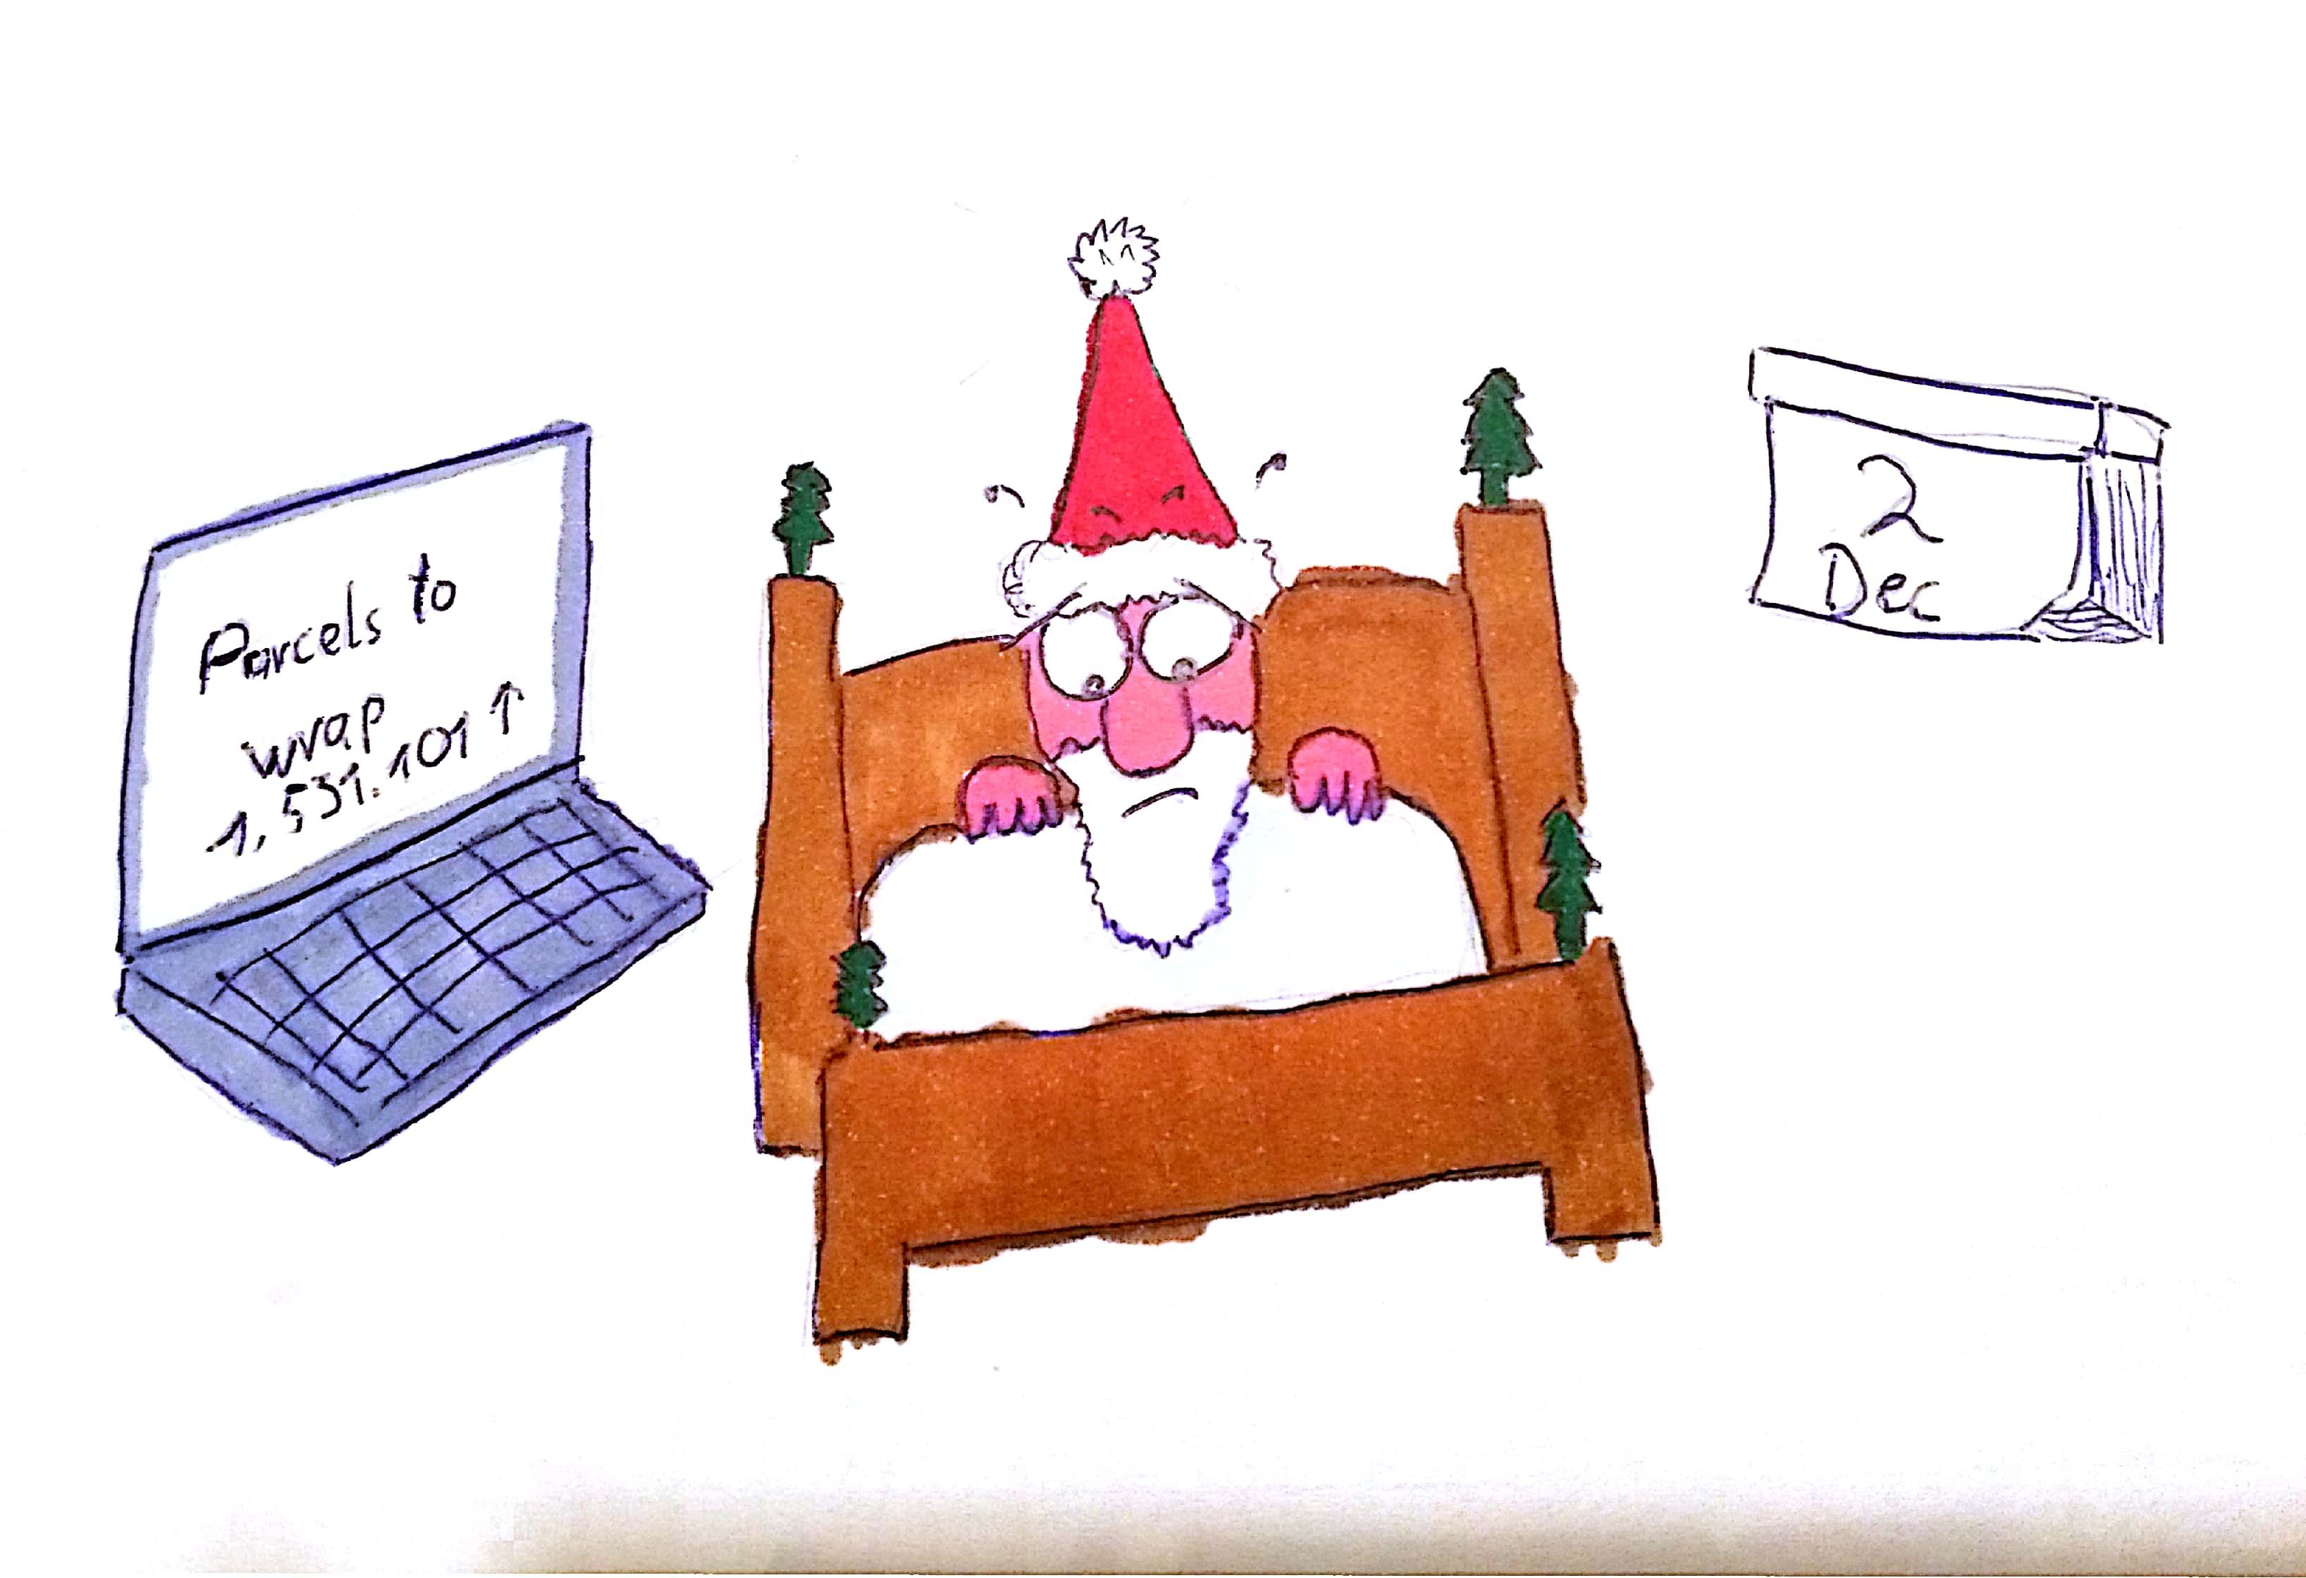
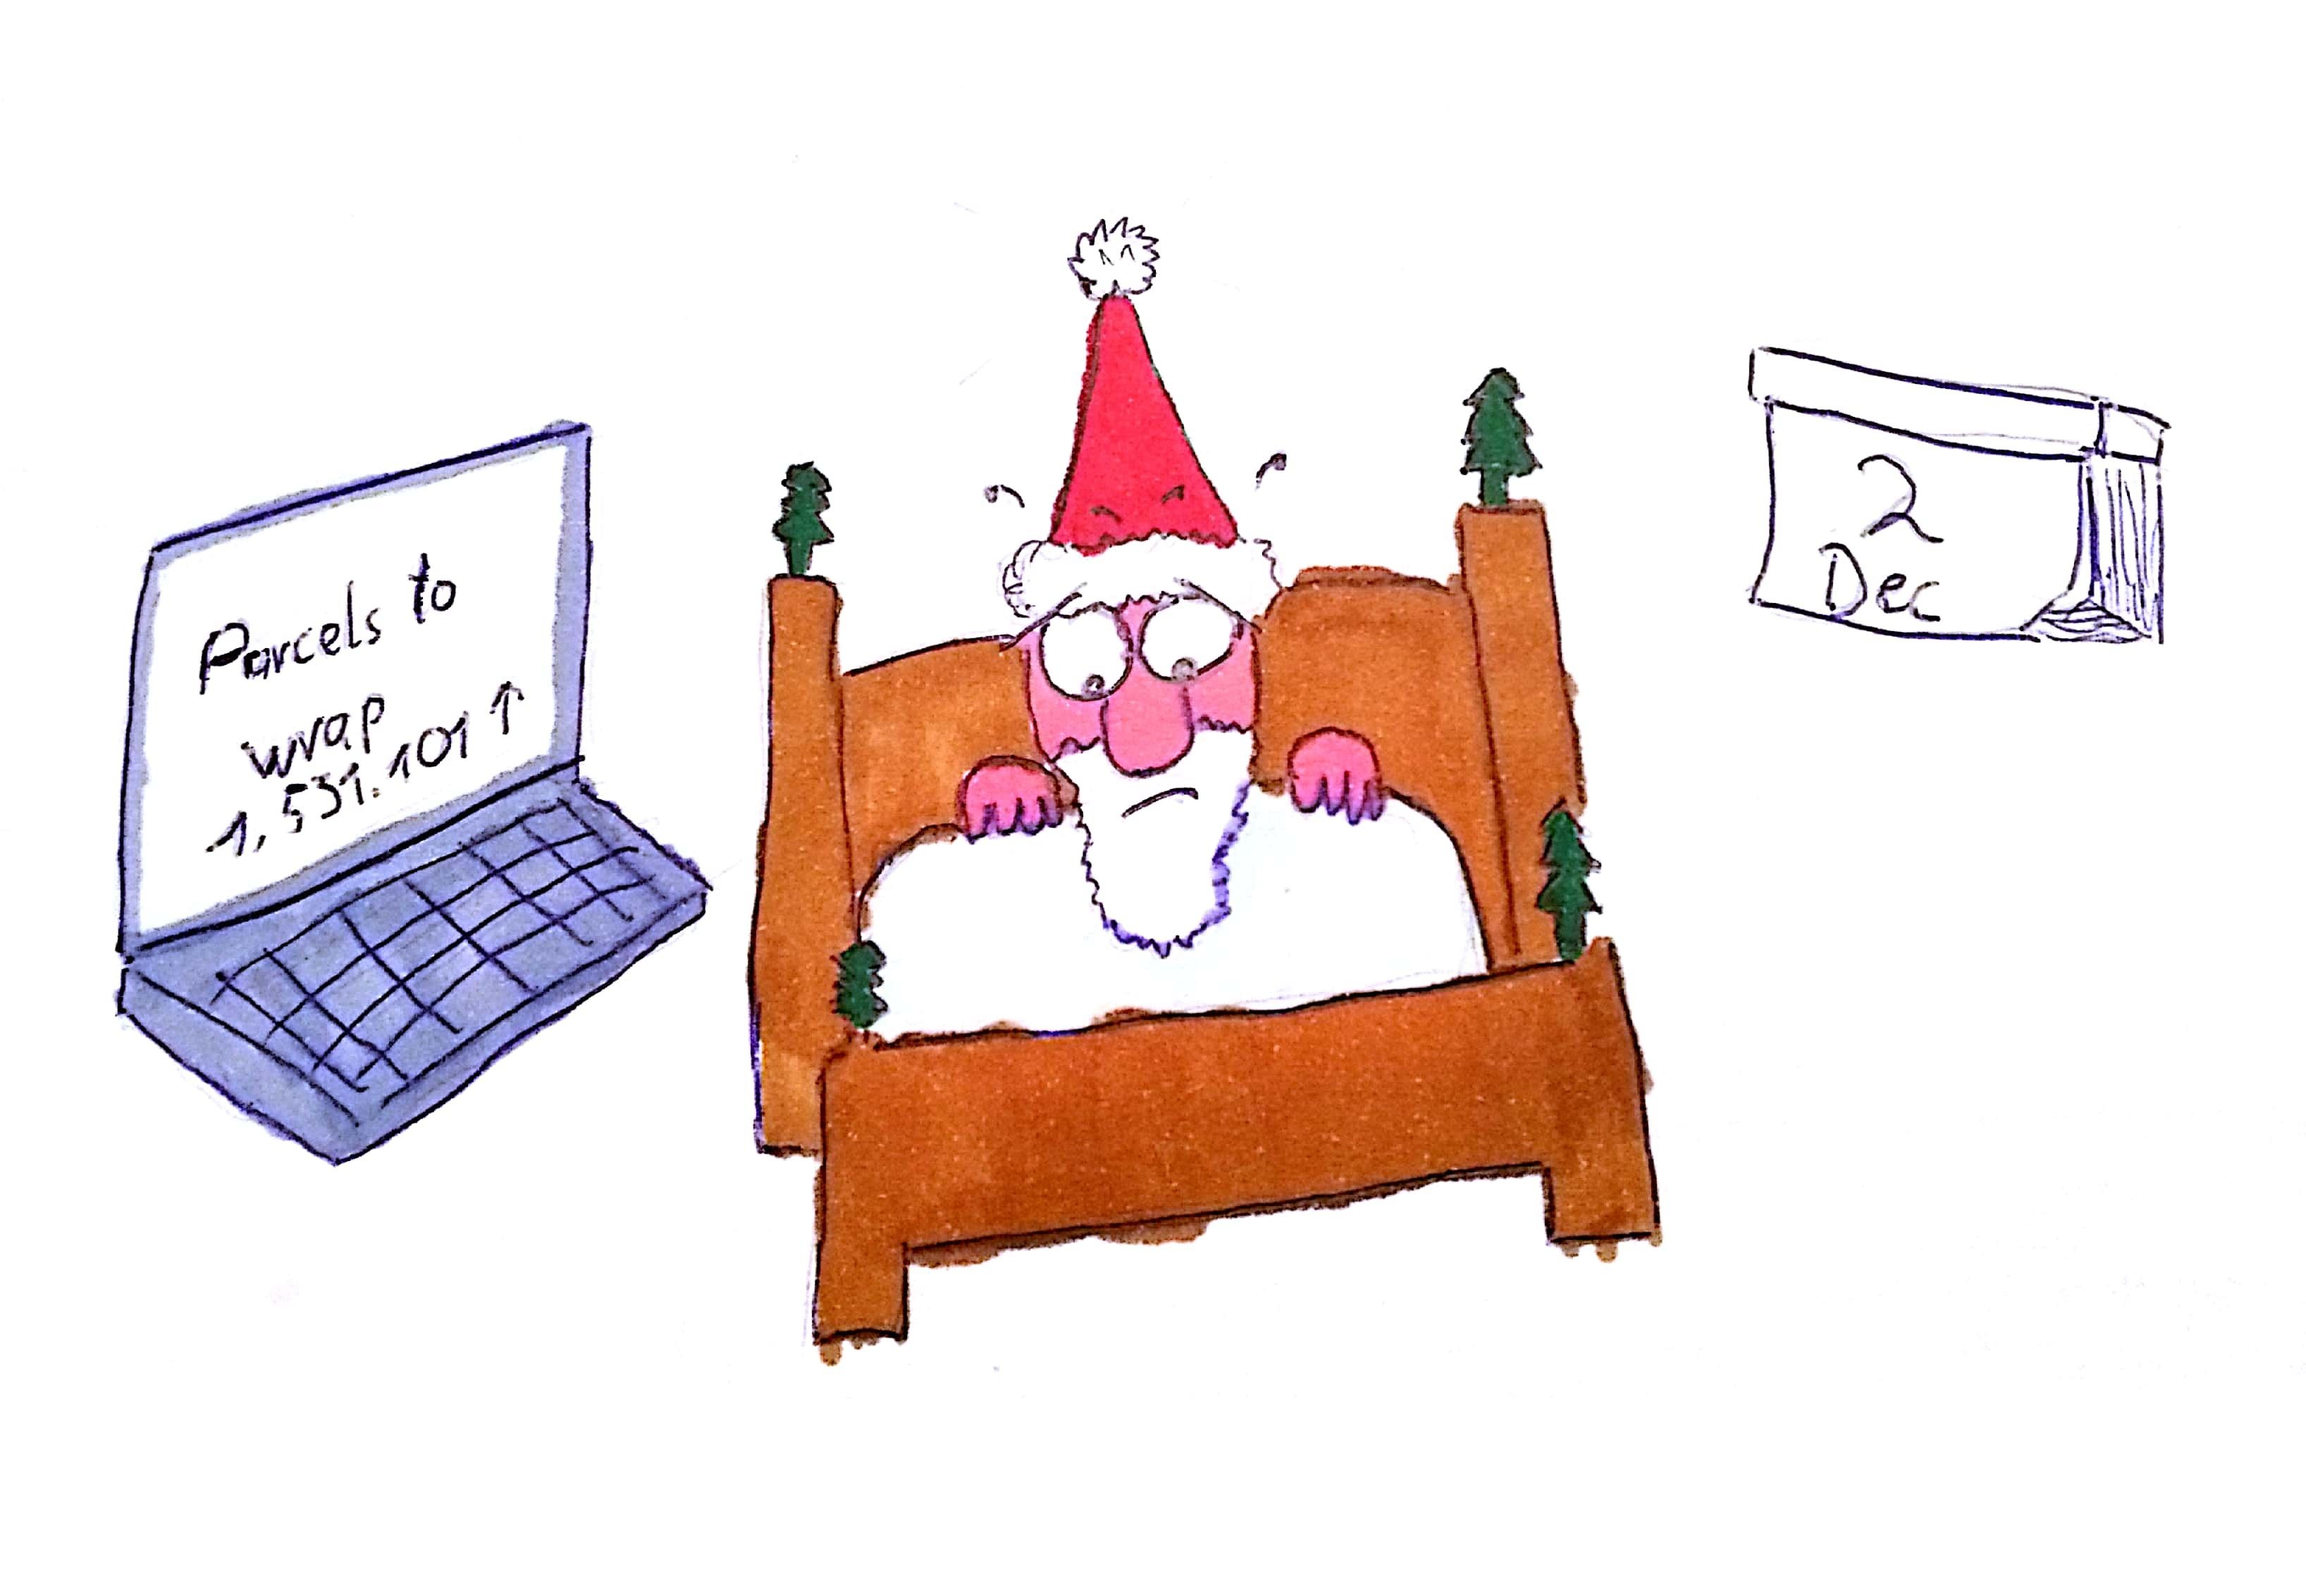
fix shadow in motivation-0

Changed region(s): [[0.187, 0.9375, 1.0, 1.0]]

diff --git a/introduction.md b/introduction.md
@@ -8,7 +8,7 @@ Hey Santa, we need to talk about our flow of production. I understand that for y
 
 ??VERTICAL
 ## Motivation
-<img src="images/motivation-0.jpg">
+<img src="images/motivation-0.jpg" width="75%">
 Note: First of all, can you remember last year, when we were so far behind the schedule, that you was afraid that you could not deliver all ordered presents in time and people might loose faith in you? May I remind you of your awful nightmares you had at that time. You woke up every night and mumbled something about Easter Bunnies ruling the earth...
 Can you remember the hussles we had back then? 
 
